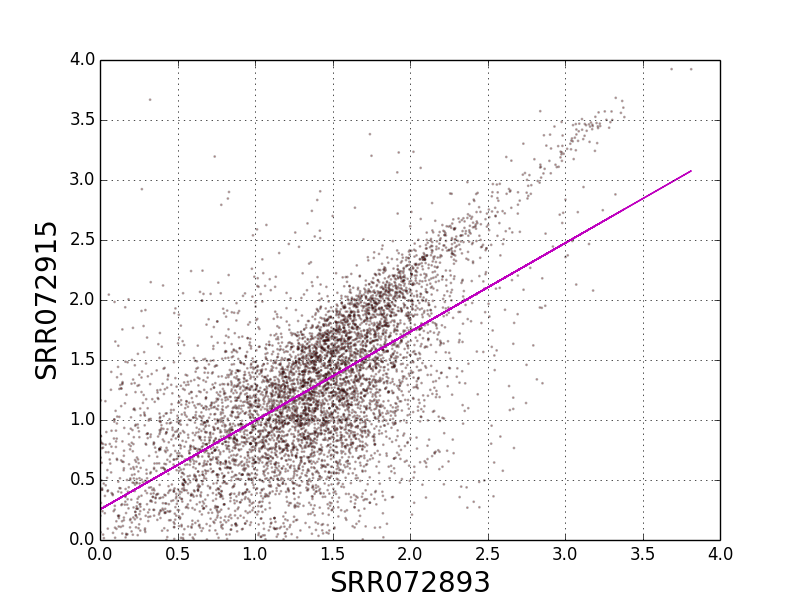
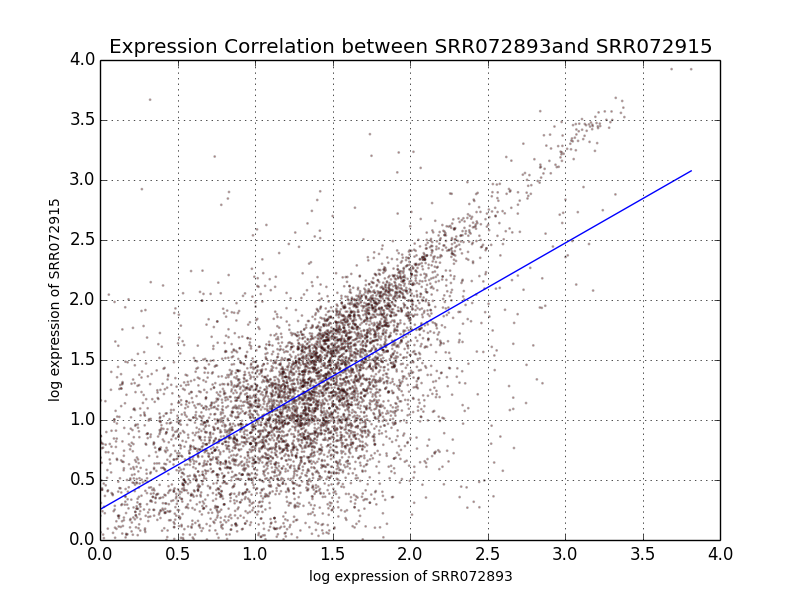
trendline still not working

diff --git a/day4-lunch/scatter.py b/day4-lunch/scatter.py
@@ -72,9 +72,10 @@ plt.figure()
 plt.scatter(x, y, c = "Red", alpha = 0.3, s = 1)
 plt.xlim(0,4)
 plt.ylim(0,4)
-plt.xlabel(str(sys.argv[4]), fontsize = 20)
-plt.ylabel(str(sys.argv[5]), fontsize = 20)
+plt.xlabel("log expression of " + str(sys.argv[4]), fontsize = 10)
+plt.ylabel("log expression of " + str(sys.argv[5]), fontsize = 10)
 plt.grid(True)
+plt.title("Expression Correlation between " + str(sys.argv[4]) + "and " + str(sys.argv[5]))
 plt.plot(x, m * x + b, '-', c = "m")
 plt.savefig(sys.argv[3] + ".png")
 plt.close()
